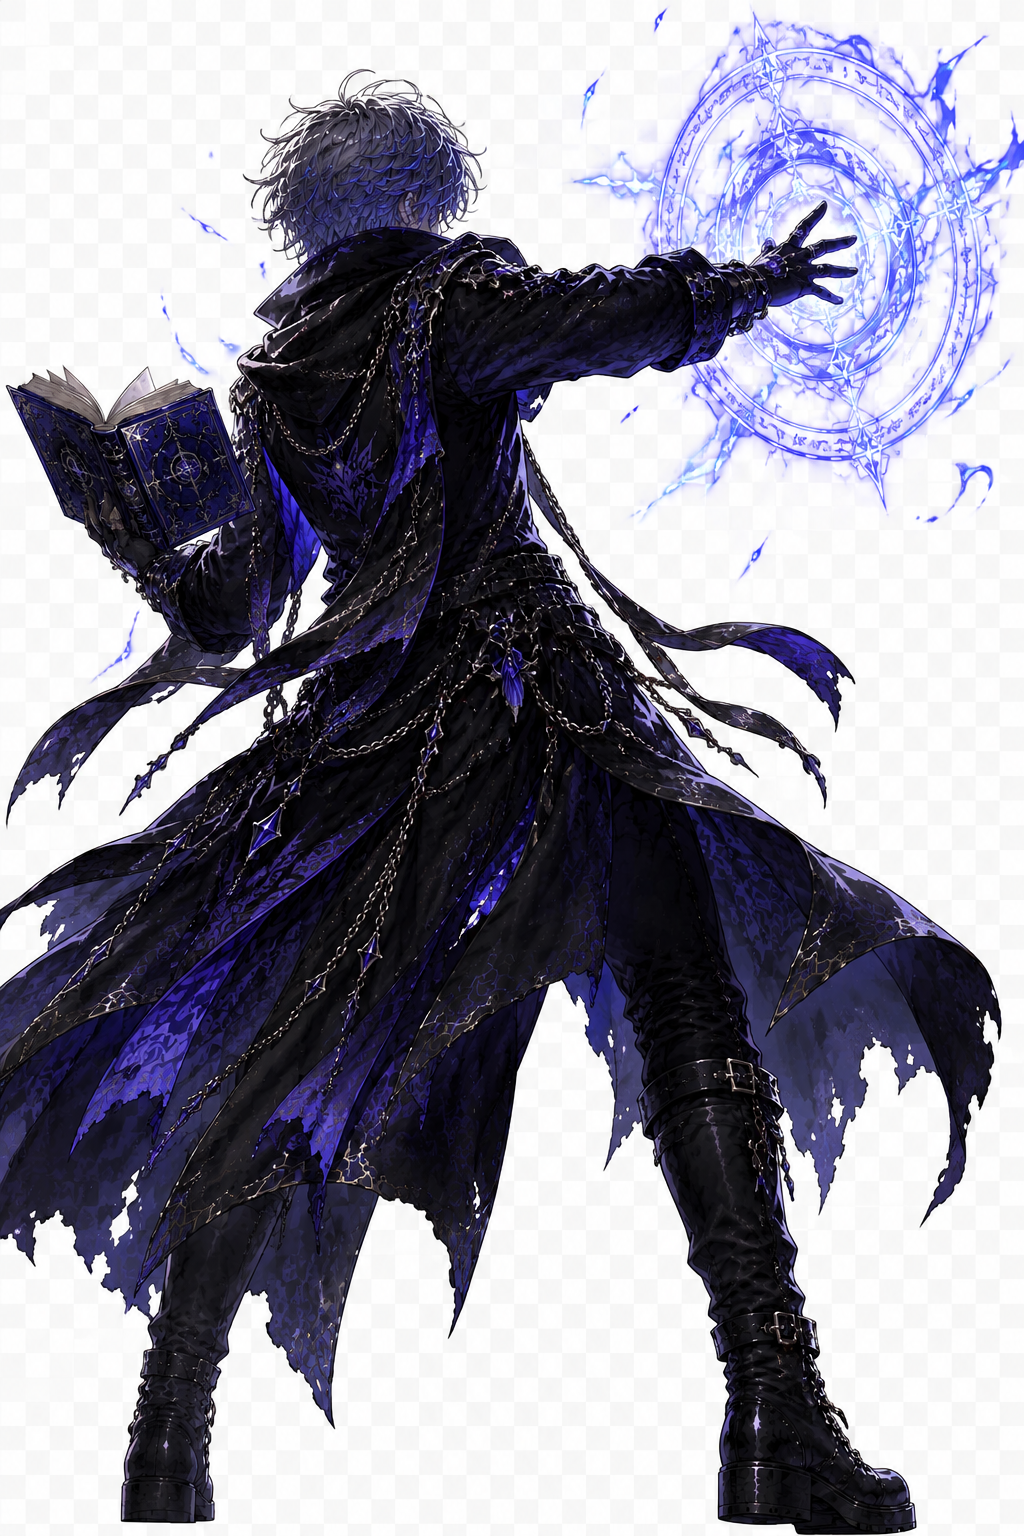
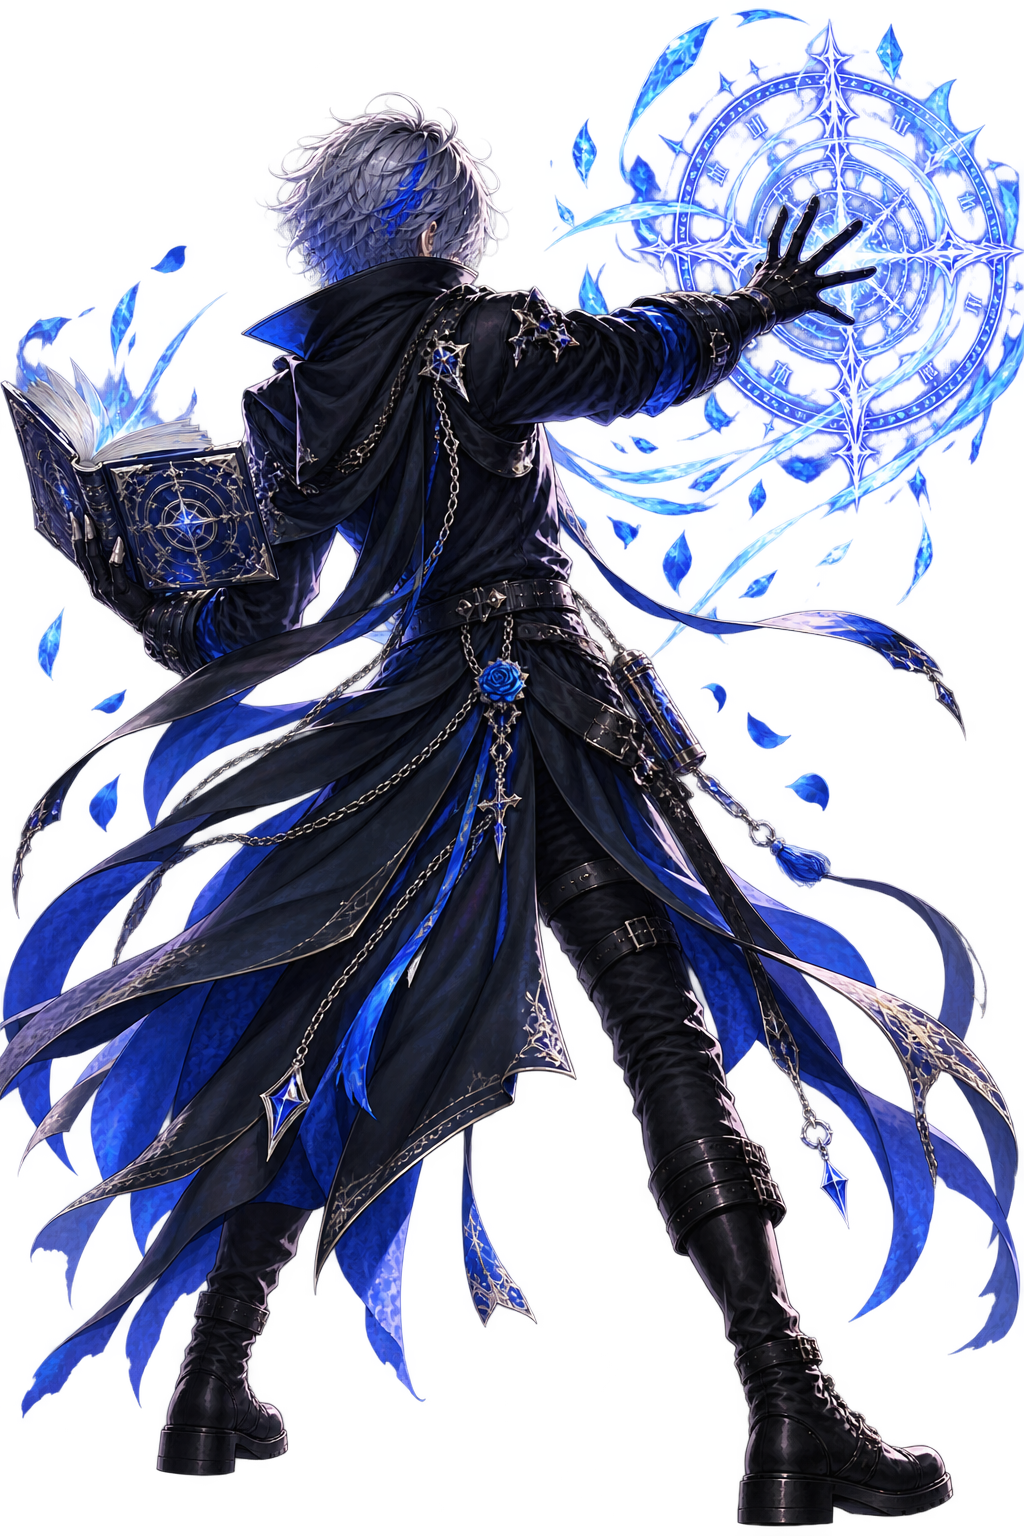
Add fixed battle portraits and repeat command art

diff --git a/css/battle-ui-v2.css b/css/battle-ui-v2.css
@@ -1564,11 +1564,14 @@
   #game .command-panel[data-layout="main"]>button:nth-child(-n+4){min-height:68px;height:68px}
 }
 
-/* 逃走はMENU帰還へ統合。6枠目は将来の「再行動」画像が来るまで黒く伏せる。 */
+/* 逃走はMENU帰還へ統合。6枠目は直前の行動を繰り返す「再行動」。 */
 #game .command-panel[data-layout="main"]>button[data-action="repeat"]{
-  background:#010207!important;
-  background-image:none!important;
-  border-color:#080910!important;
+  background-color:#010207!important;
+  background-image:url("../assets/ui/battle/lower-ui-v2/command-repeat-v1.png")!important;
+  background-position:center!important;
+  background-size:100% 100%!important;
+  background-repeat:no-repeat!important;
+  border-color:transparent!important;
   box-shadow:none!important;
 }
 #game .command-panel[data-layout="main"]>button[data-action="repeat"]::before{display:none!important}

diff --git a/index.html b/index.html
@@ -40,7 +40,7 @@
   <link rel="stylesheet" href="css/infinite-score.css?v=0.3.1">
   <link rel="stylesheet" href="css/fixes.css?v=0.6.7">
   <link rel="stylesheet" href="css/battle-fx.css?v=0.1.0">
-  <link rel="stylesheet" href="css/battle-ui-v2.css?v=0.1.59">
+  <link rel="stylesheet" href="css/battle-ui-v2.css?v=0.1.60">
   <link rel="stylesheet" href="css/hideout.css?v=0.3.8">
   <link rel="stylesheet" href="css/settings.css?v=0.2.5">
   <link rel="stylesheet" href="css/hideout-art.css?v=0.6.26">
@@ -157,7 +157,7 @@
   <script src="js/job_maestro.js?v=0.3.3"></script>
   <script src="js/otherworld.js?v=0.2.9"></script>
   <script src="js/infinite_score.js?v=0.3.4"></script>
-  <script src="js/start-flow.js?v=0.4.27"></script>
+  <script src="js/start-flow.js?v=0.4.30"></script>
   <script src="js/kazu_minigame.js?v=0.3.0"></script>
 </body>
 </html>

diff --git a/js/start-flow.js b/js/start-flow.js
@@ -28,7 +28,7 @@
       try {
         [this.prologue, this.characters] = await Promise.all([
           fetch('data/prologue.json').then(response => response.json()),
-          fetch('data/characters.json?v=0.4.7').then(response => response.json())
+          fetch('data/characters.json?v=0.4.10').then(response => response.json())
         ]);
       } catch (error) {
         console.error('Start flow data could not be loaded.', error);
